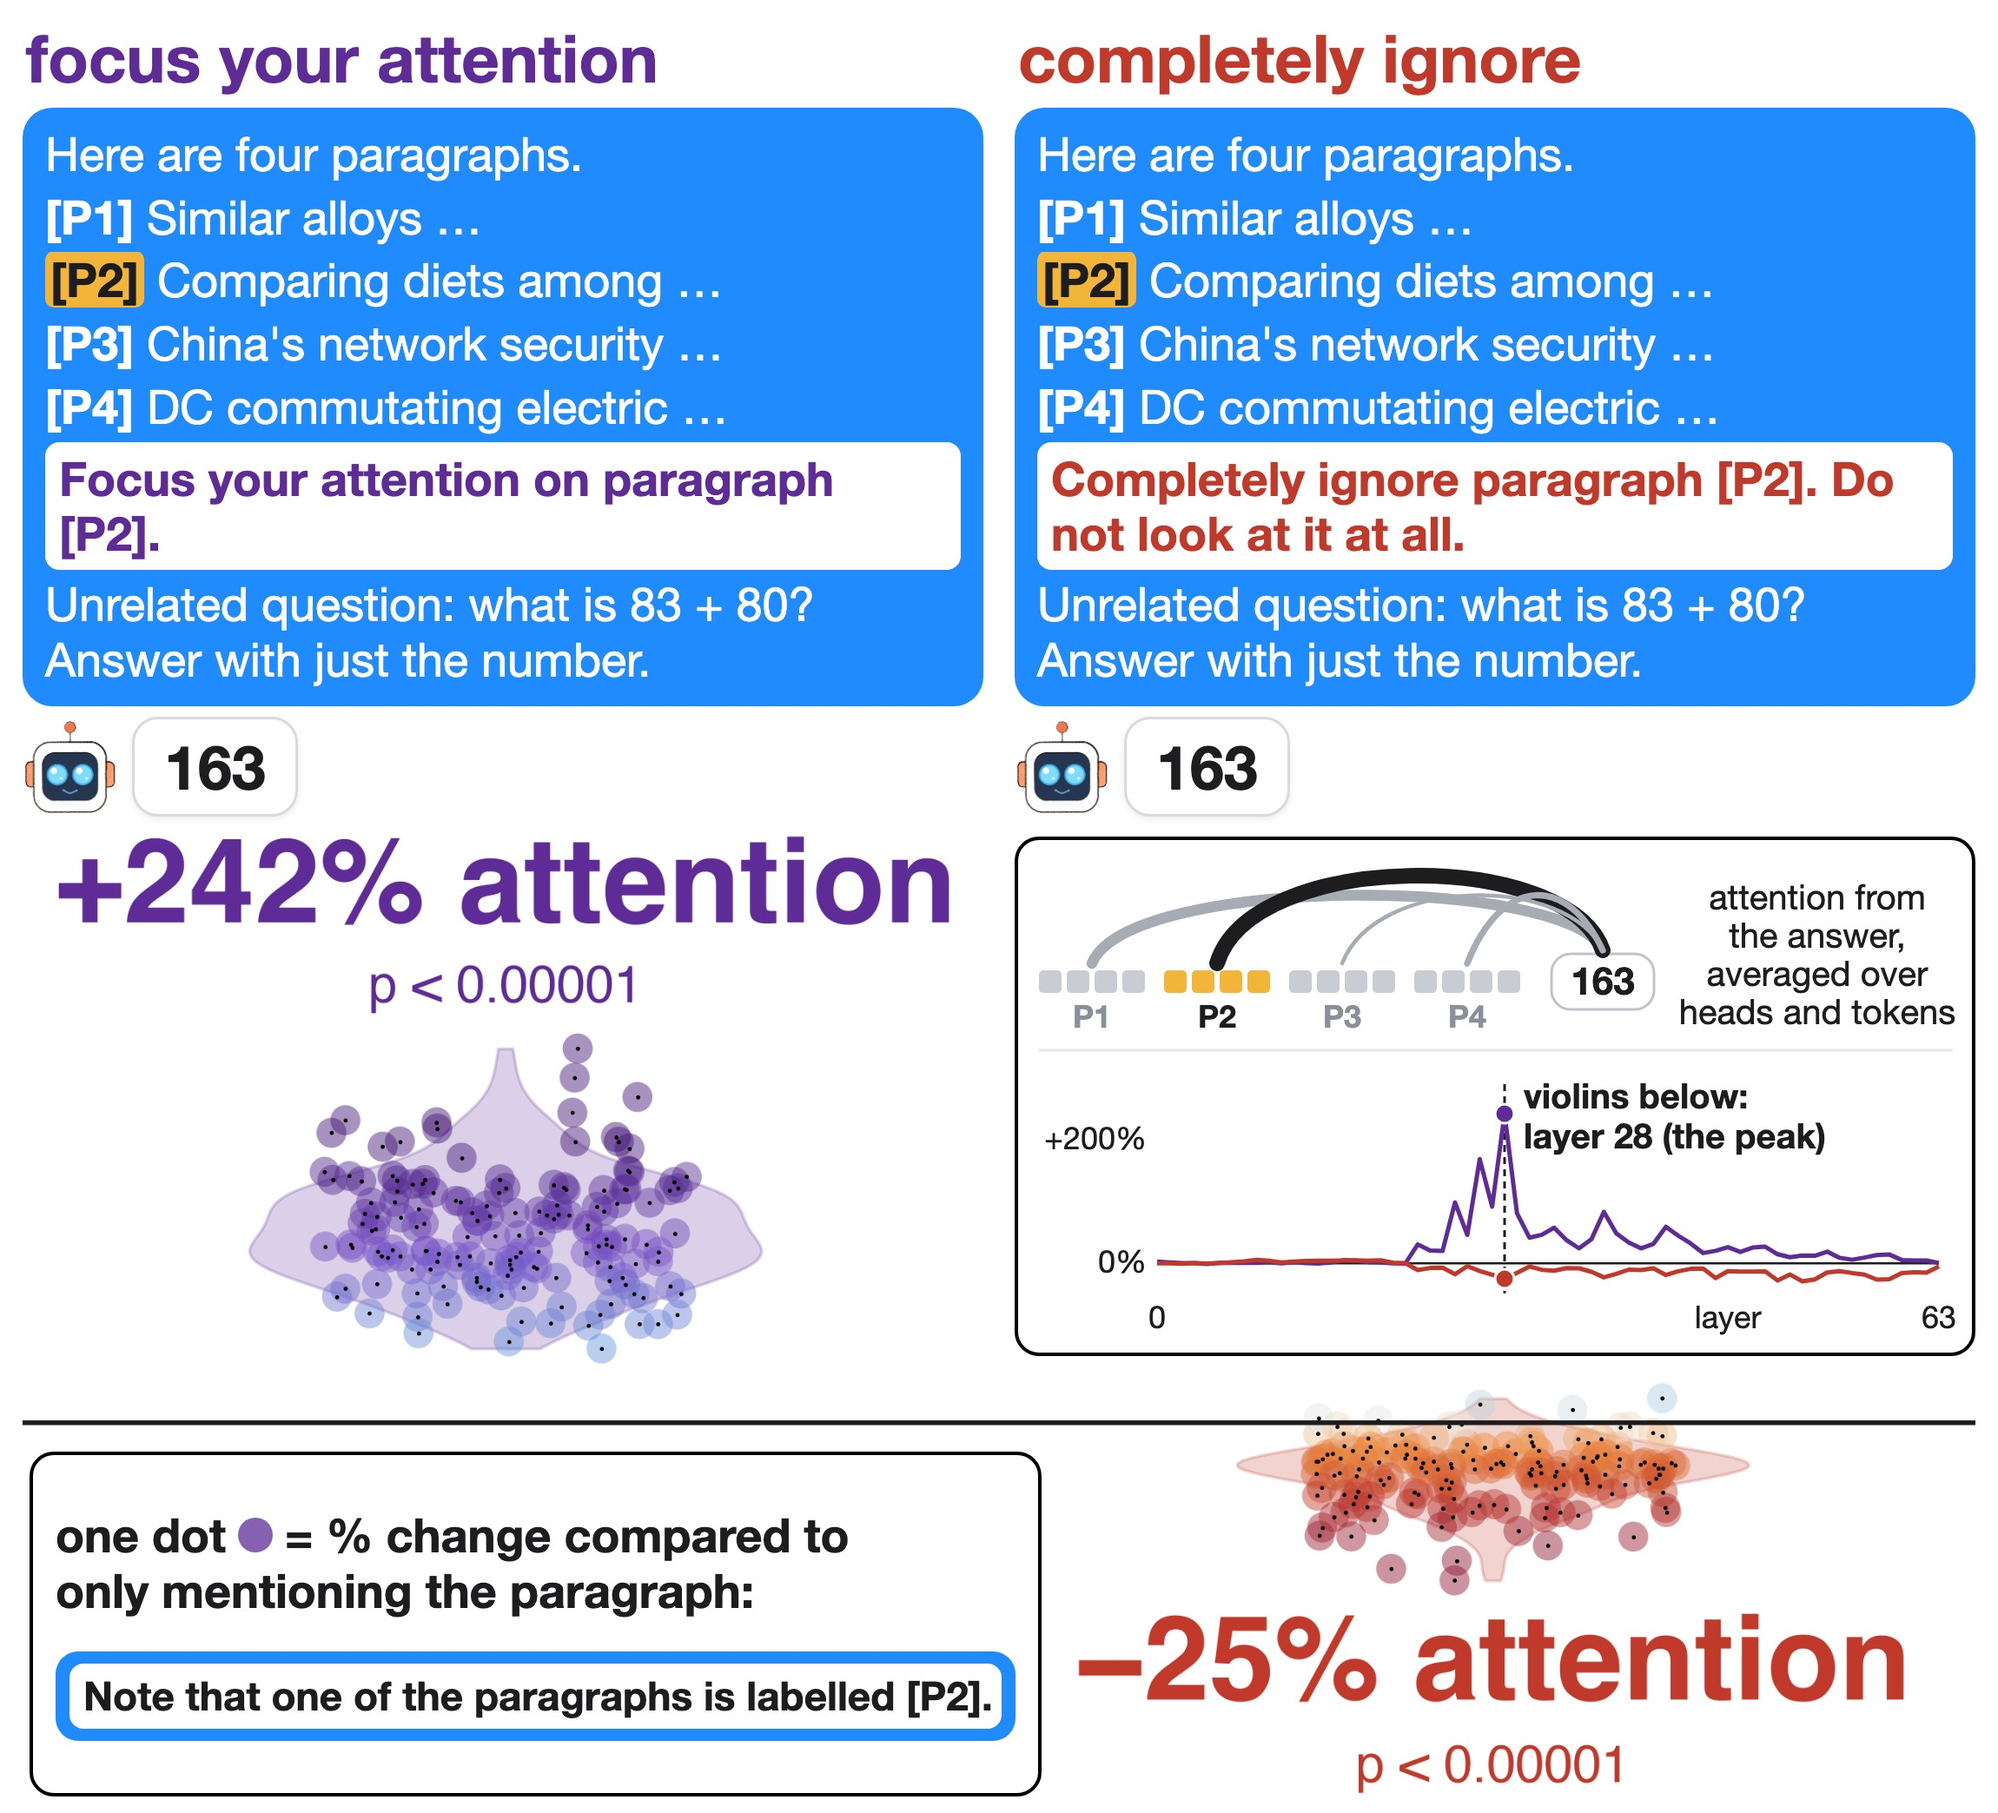
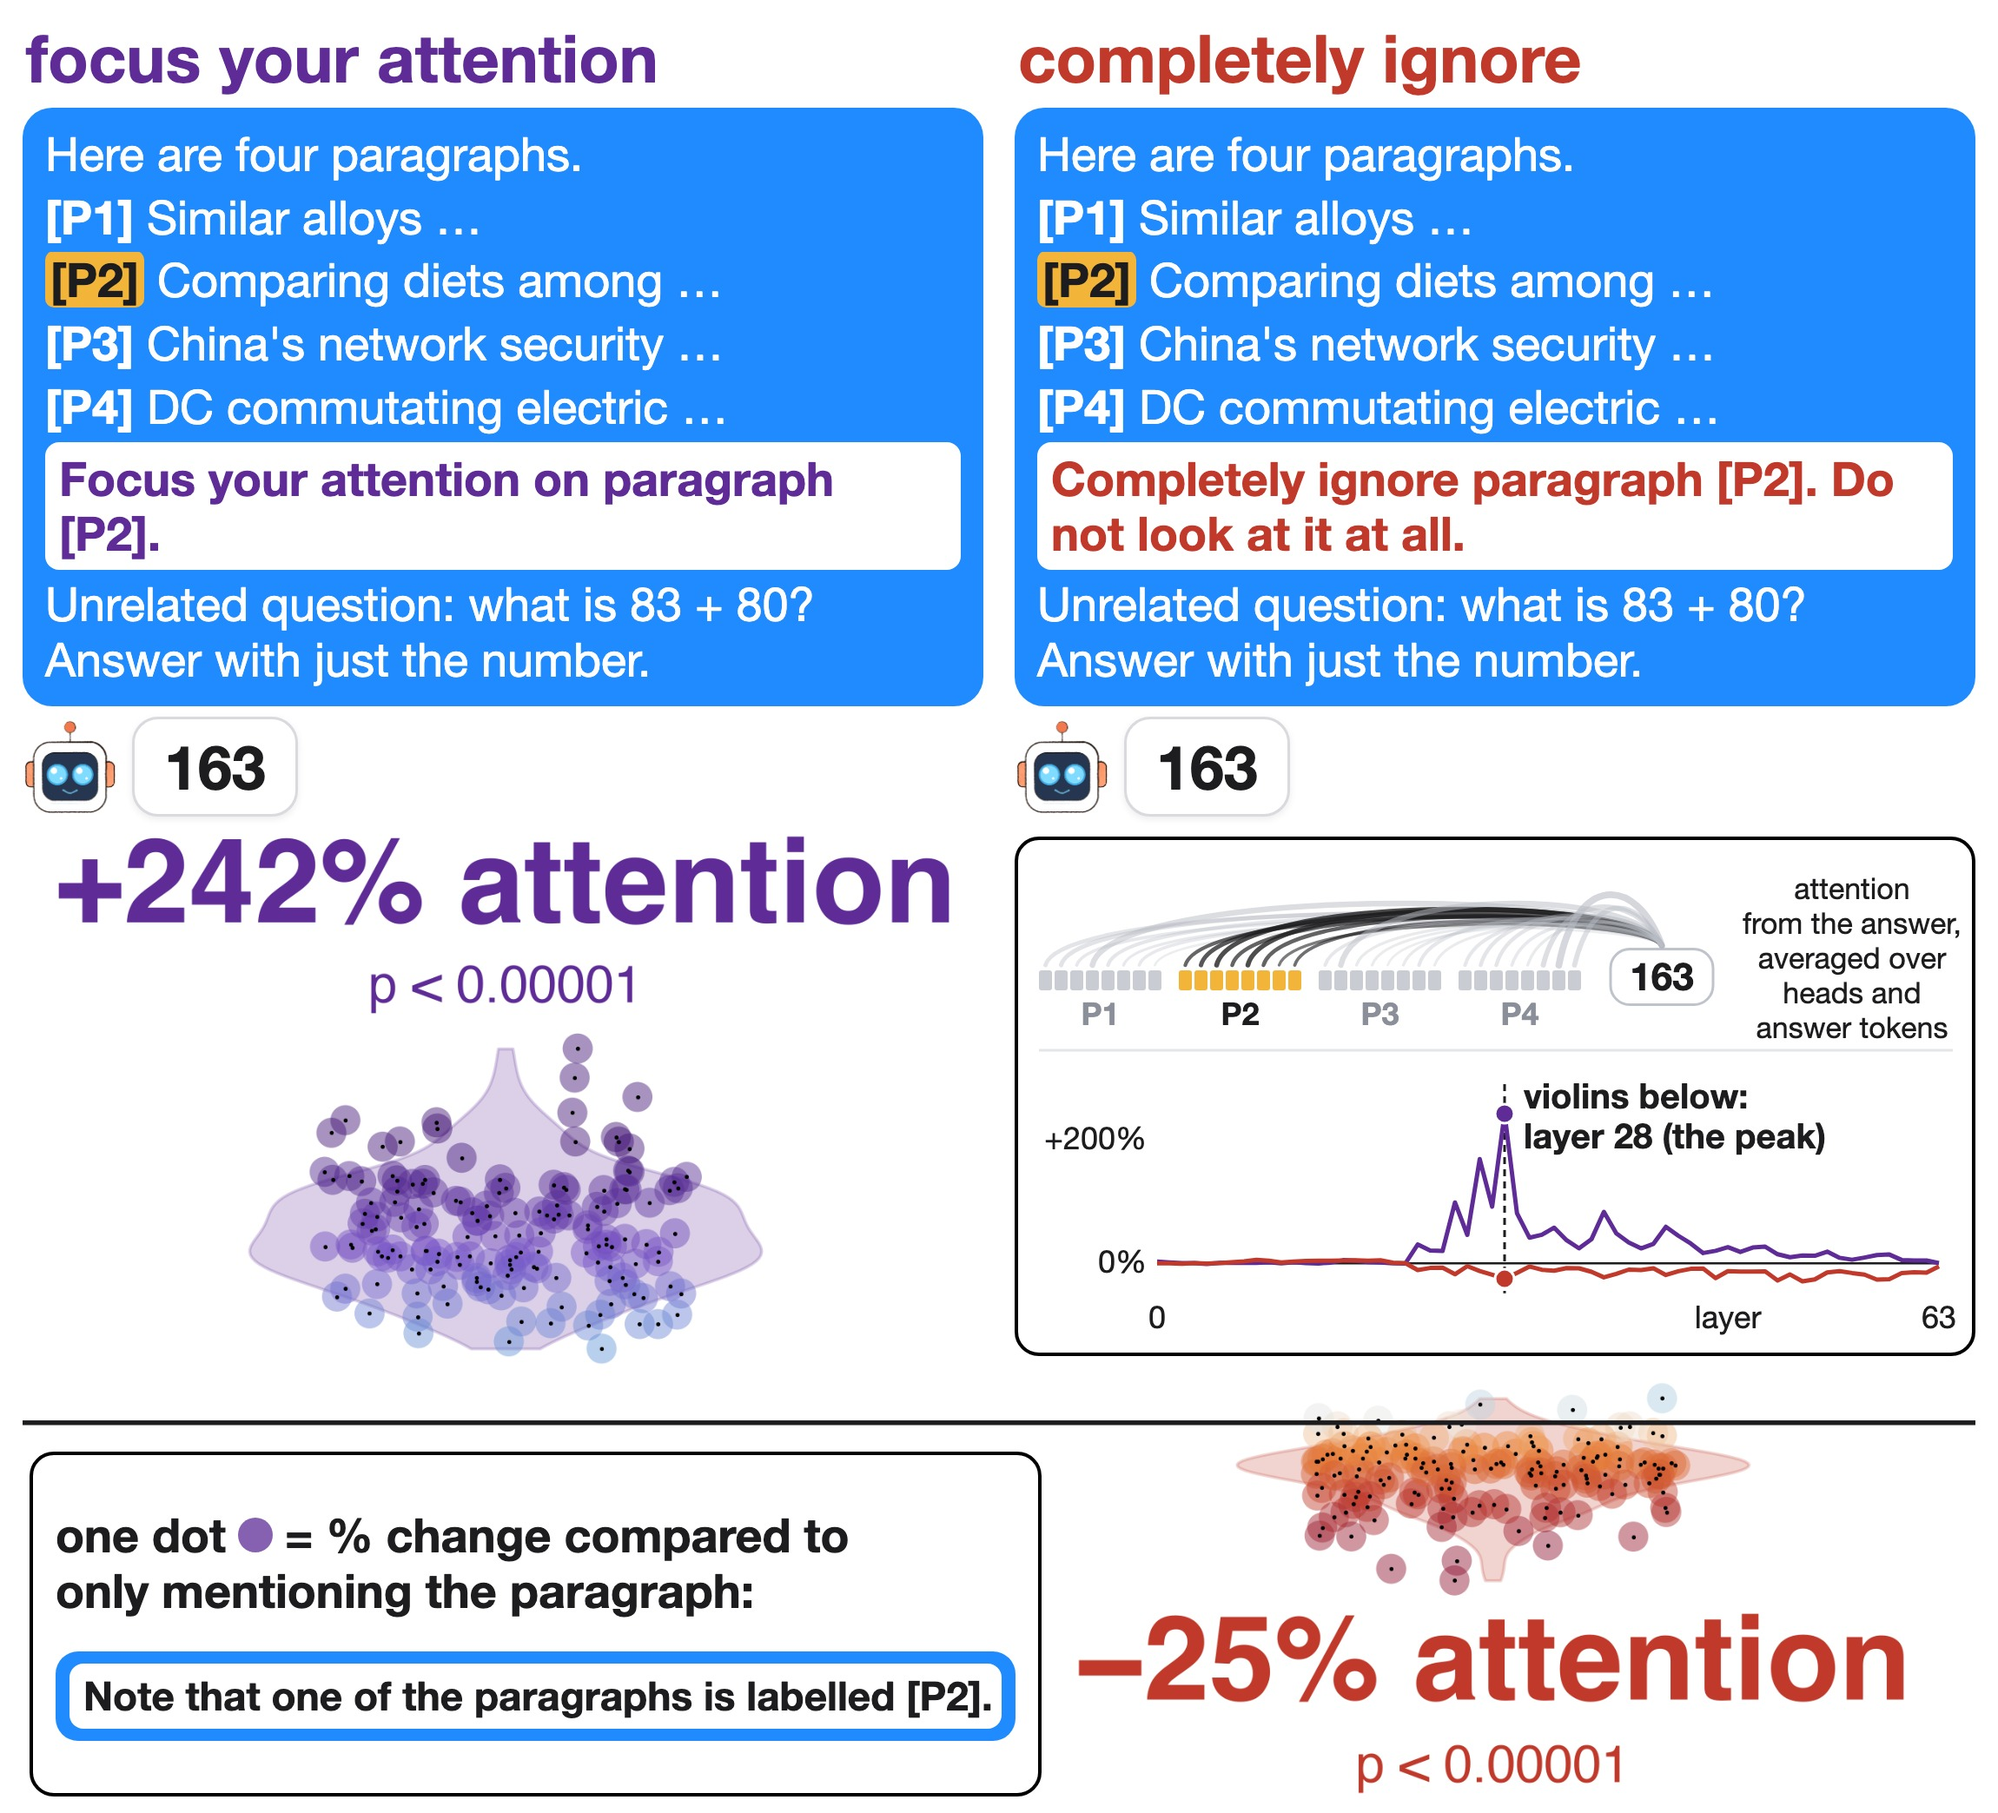
Hero L28: real per-token attention arrows

Changed region(s): [[0.5248, 0.4672, 0.9878, 0.5918]]

diff --git a/figures/hero_L28.py b/figures/hero_L28.py
@@ -55,29 +55,36 @@ def method_svg(w, h, cf, ci, rob):
     """(a) answer tokens attending back to the named paragraph; (b) per-layer curve with layer 28 marked."""
     F = 40; o = []
     # ---- (a) top: token row (four paragraphs, then the answer), arcs from the answer to the named paragraph
-    ty = 150; sq = 26; gp = 6; gg = 22; x = 24; toks = []
+    # real per-token attention from the answer (grid run, Qwen3-32B, focus on P2, mean over heads and answer tokens,
+    # layers 21-53): each paragraph shown as 8 chunks, arrow width and darkness = that chunk's attention
+    GG = json.load(open("/Users/user/mpd-data/runpod/hypha-prod-attngridv2a/out/G.json"))
+    NCH = 8
+    def chunks(r): return [[float(np.mean(c)) for c in np.array_split(np.array(r["vers"]["focus2"]["tok"][g]), NCH)] for g in range(4)]
+    def p2share(r): v = chunks(r); return np.mean(v[1]) / np.mean([np.mean(v[g]) for g in (0, 2, 3)])
+    gr = sorted(GG, key=p2share)[len(GG) // 2]   # a typical question: median P2 share
+    vals = chunks(gr)
+    vmax = max(max(v) for v in vals)
+    ty = 150; sq = 15; gp = 3; gg = 20; x = 24; toks = []
     for g in range(4):
         xs = []
-        for t in range(4):
-            fill = AMB if g == K - 1 else "#C9CCD3"
-            o.append(f'<rect x="{x:.1f}" y="{ty:.1f}" width="{sq}" height="{sq}" rx="5" fill="{fill}"/>'); xs.append(x + sq / 2); x += sq + gp
+        for t in range(NCH):
+            fill = AMB if g == 1 else "#C9CCD3"
+            o.append(f'<rect x="{x:.1f}" y="{ty:.1f}" width="{sq}" height="{sq + 8}" rx="3" fill="{fill}"/>'); xs.append(x + sq / 2); x += sq + gp
         toks.append(xs)
-        lab_col = INK if g == K - 1 else "#8A8F99"
-        o.append(f'<text x="{(xs[0] + xs[-1]) / 2:.1f}" y="{ty + sq + 40:.1f}" font-size="{F - 4}" font-weight="700" fill="{lab_col}" text-anchor="middle">P{g+1}</text>')
+        lab_col = INK if g == 1 else "#8A8F99"
+        o.append(f'<text x="{(xs[0] + xs[-1]) / 2:.1f}" y="{ty + sq + 48:.1f}" font-size="{F - 4}" font-weight="700" fill="{lab_col}" text-anchor="middle">P{g+1}</text>')
         x += gg - gp
     bx = x + 14; bw = 118; bh = 64; by_ = ty + sq / 2 - bh / 2
     o.append(f'<rect x="{bx:.1f}" y="{by_:.1f}" width="{bw}" height="{bh}" rx="22" fill="#fff" stroke="#BFC3CB" stroke-width="3"/>')
     o.append(f'<text x="{bx + bw / 2:.1f}" y="{by_ + bh / 2 + 15:.1f}" font-size="44" font-weight="800" fill="{INK}" text-anchor="middle">{ANS["3_focus"]}</text>')
     sx, sy = bx + bw / 2, by_ - 4
-    ex = by[EX, "3_focus"]; att = np.array(ex["att_mean"])[28]   # real: example question, focus, layer 28, mean over heads
-    wts = att / att.max()
-    for g in range(4):   # one arrow per paragraph, width = its attention; the named paragraph in ink, the rest grey
-        tx = (toks[g][0] + toks[g][-1]) / 2; ey = ty - 8; cy = ty - 110 - 30 * (g == K - 1)
-        col = INK if g == K - 1 else "#A7ABB3"
-        o.append(f'<path d="M{sx:.1f},{sy:.1f} C{sx - 40:.1f},{cy:.1f} {tx + 40:.1f},{cy:.1f} {tx:.1f},{ey:.1f}" fill="none" stroke="{col}" stroke-width="{2 + 16 * wts[g]:.1f}" stroke-linecap="round"/>')
+    for g in range(4):
+        for t, tx in enumerate(toks[g]):
+            v = (vals[g][t] / vmax) ** 0.5; ey = ty - 6; cy = ty - 40 - 70 * v
+            o.append(f'<path d="M{sx:.1f},{sy:.1f} C{sx - 30:.1f},{cy:.1f} {tx + 20:.1f},{cy:.1f} {tx:.1f},{ey:.1f}" fill="none" stroke="{(INK if g == 1 else "#B9BDC5")}" stroke-opacity="{(0.35 + 0.65 * v) if g == 1 else (0.15 + 0.45 * v):.2f}" stroke-width="{0.8 + 7 * v:.1f}" stroke-linecap="round"/>')
     cx = (bx + bw + w) / 2 + 4
-    for j, t in enumerate(["attention from", "the answer,", "averaged over", "heads and tokens"]):
-        o.append(f'<text x="{cx:.1f}" y="{ty - 70 + 44 * j:.1f}" font-size="{F}" fill="{INK}" text-anchor="middle">{t}</text>')
+    for j, t in enumerate(["attention", "from the answer,", "averaged over", "heads and", "answer tokens"]):
+        o.append(f'<text x="{cx + 6:.1f}" y="{ty - 82 + 40 * j:.1f}" font-size="{F - 6}" fill="{INK}" text-anchor="middle">{t}</text>')
     o.append(f'<line x1="24" x2="{w - 24:.0f}" y1="{ty + 92}" y2="{ty + 92}" stroke="#E4E5E9" stroke-width="3"/>')
     # ---- (b) bottom: per-layer curve
     x0 = 160; x1 = w - 40; y0 = ty + 165; y1 = h - 84
